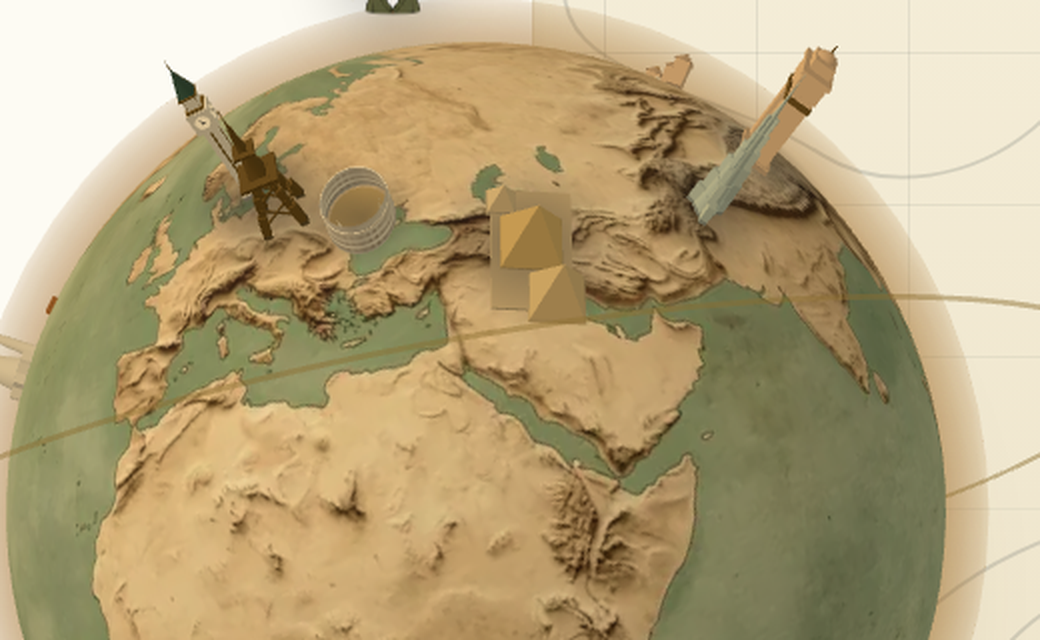
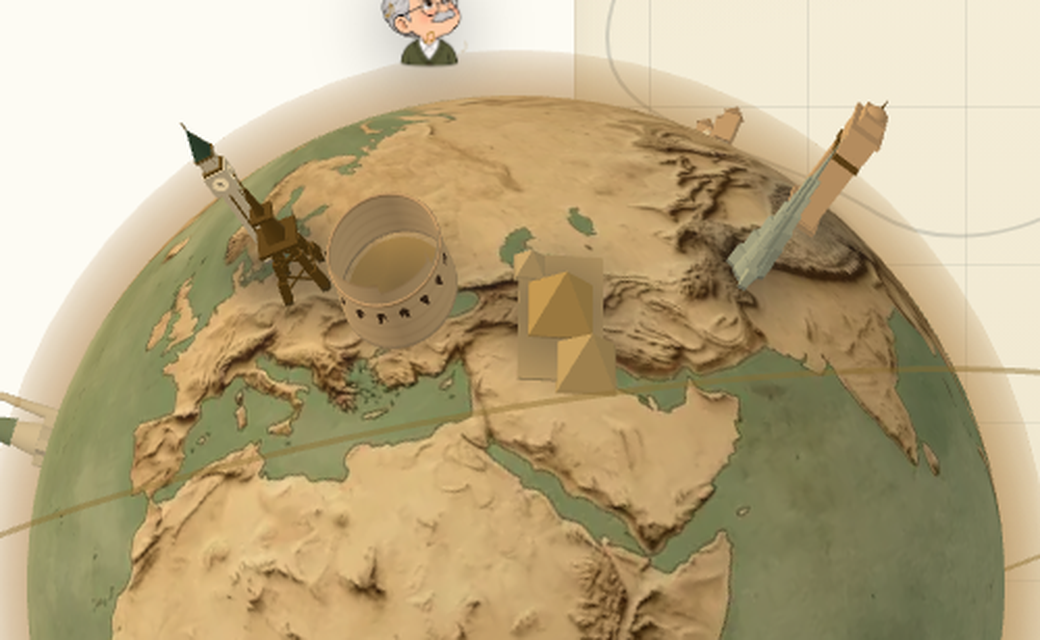
Restyle the Colosseum in the landmark globe mockup and record the recognition test

diff --git a/docs/mockups/landmark-globe.html b/docs/mockups/landmark-globe.html
@@ -227,7 +227,7 @@ const PAL = {
 const LANDMARKS = [
   { id: "eiffel", name: "Eiffel Tower", place: "Paris", lat: 48.858, lon: 2.294, show: [47.0, 2.8], scale: 0.22, color: "brassDeep" },
   { id: "bigben", name: "Big Ben", place: "London", lat: 51.501, lon: -0.125, show: [53.0, -2.0], scale: 0.19, color: "stone" },
-  { id: "colosseum", name: "Colosseum", place: "Rome", lat: 41.890, lon: 12.492, show: [41.9, 13.5], scale: 0.16, color: "stone" },
+  { id: "colosseum", name: "Colosseum", place: "Rome", lat: 41.890, lon: 12.492, show: [40.5, 15.0], scale: 0.25, color: "sandstone" },
   { id: "liberty", name: "Statue of Liberty", place: "New York", lat: 40.689, lon: -74.045, scale: 0.22, color: "sage" },
   { id: "cntower", name: "CN Tower", place: "Toronto", lat: 43.643, lon: -79.387, scale: 0.19, color: "stone" },
   { id: "goldengate", name: "Golden Gate Bridge", place: "San Francisco", lat: 37.820, lon: -122.478, scale: 0.28, color: "clay" },
@@ -353,25 +353,44 @@ const BUILD = {
   },
   colosseum(mat, key) {
     const b = bag();
+    // Restyled Nov 19 2026 (council spec, owner-adopted): the old build read as
+    // a grey ring at page size — pale stone, texture-only arches, shortest drum
+    // of the twelve. Now: warm sandstone, a taller drum, dark arch insets as
+    // real geometry, and a stepped broken upper tier for the ruin silhouette.
     const c = document.createElement("canvas");
     c.width = 1024; c.height = 256;
     const x = c.getContext("2d");
-    x.fillStyle = "#efe4c8"; x.fillRect(0, 0, 1024, 256);
-    x.fillStyle = "#b89a68";
+    x.fillStyle = "#dfc298"; x.fillRect(0, 0, 1024, 256);
+    x.fillStyle = "#b08954";
     x.fillRect(0, 0, 1024, 14);
-    x.fillStyle = "#7d6440";
-    for (let row = 0; row < 3; row++) for (let i = 0; i < 36; i++) {
-      const ax = i * 28.4 + 6, ay = 26 + row * 76;
-      x.beginPath(); x.moveTo(ax, ay + 58); x.lineTo(ax, ay + 18); x.arc(ax + 8, ay + 18, 8, Math.PI, 0); x.lineTo(ax + 16, ay + 58); x.fill();
-    }
+    x.fillStyle = "rgba(122, 90, 52, 0.35)";
+    for (let y = 62; y < 256; y += 64) x.fillRect(0, y, 1024, 5);
     const tex = new THREE.CanvasTexture(c);
     tex.colorSpace = THREE.SRGBColorSpace;
     tex.wrapS = THREE.RepeatWrapping;
     const wallMat = new THREE.MeshStandardMaterial({ map: tex, roughness: 0.9, side: THREE.DoubleSide });
-    b.add(new THREE.CylinderGeometry(0.5, 0.52, 0.34, 36, 1, true), wallMat, 0, 0.17, 0, 0, 0, 0, 1, 1, 0.8);
-    b.add(new THREE.CylinderGeometry(0.5, 0.5, 0.13, 36, 1, true, 0, Math.PI * 1.1), wallMat, 0, 0.405, 0, 0, 0, 0, 1, 1, 0.8);
-    b.add(new THREE.TorusGeometry(0.5, 0.013, 4, 36), mat(key), 0, 0.34, 0, Math.PI / 2, 0, 0, 1, 0.8, 1);
-    b.add(new THREE.CylinderGeometry(0.33, 0.33, 0.2, 28, 1, true), mat(key), 0, 0.1, 0, 0, 0, 0, 1, 1, 0.8);
+    const dark = new THREE.MeshStandardMaterial({ color: 0x4a3421, roughness: 0.95 });
+    const drum = (rt, rb, h, start, len) => new THREE.CylinderGeometry(rt, rb, h, 36, 1, true, start, len);
+    b.add(drum(0.5, 0.53, 0.46, 0, Math.PI * 2), wallMat, 0, 0.23, 0, 0, 0, 0, 1, 1, 0.8);
+    // stepped broken wedge: full height on one arc, stepping down twice
+    b.add(drum(0.5, 0.5, 0.22, 0, 1.5), wallMat, 0, 0.57, 0, 0, 0, 0, 1, 1, 0.8);
+    b.add(drum(0.5, 0.5, 0.14, 1.5, 1.05), wallMat, 0, 0.53, 0, 0, 0, 0, 1, 1, 0.8);
+    b.add(drum(0.5, 0.5, 0.07, 2.55, 0.8), wallMat, 0, 0.495, 0, 0, 0, 0, 1, 1, 0.8);
+    b.add(new THREE.TorusGeometry(0.5, 0.016, 4, 36), mat(key), 0, 0.46, 0, Math.PI / 2, 0, 0, 1, 0.8, 1);
+    // dark recessed arch insets as geometry, two rows all the way around
+    const aw = 0.062, ah = 0.115, ar = aw / 2;
+    const archShape = new THREE.Shape();
+    archShape.moveTo(-ar, -ah / 2);
+    archShape.lineTo(-ar, ah / 2 - ar);
+    archShape.absarc(0, ah / 2 - ar, ar, Math.PI, 0, true);
+    archShape.lineTo(ar, -ah / 2);
+    archShape.closePath();
+    const archGeo = new THREE.ShapeGeometry(archShape, 6);
+    for (const ay of [0.145, 0.325]) for (let i = 0; i < 16; i++) {
+      const t = ((i + 0.5) / 16) * Math.PI * 2;
+      b.add(archGeo.clone(), dark, 0.509 * Math.sin(t), ay, 0.8 * 0.509 * Math.cos(t), 0, t, 0);
+    }
+    b.add(new THREE.CylinderGeometry(0.33, 0.33, 0.3, 28, 1, true), mat(key), 0, 0.15, 0, 0, 0, 0, 1, 1, 0.8);
     b.add(cyl(0.46, 0.46, 0.03, 28), mat("sand"), 0, 0.015, 0, 0, 0, 0, 1, 1, 0.8);
     return b.build();
   },

diff --git a/docs/mockups/landmark-globe-contract.md b/docs/mockups/landmark-globe-contract.md
@@ -59,7 +59,7 @@ Pyramids use tints derived from the sand key only (sand lerped toward stone at 0
 | --- | --- | --- | --- | --- | --- |
 | Eiffel Tower | Paris | 48.858, 2.294 | 47.0, 2.8 | 0.22 | brassDeep |
 | Big Ben | London | 51.501, -0.125 | 53.0, -2.0 | 0.19 | stone |
-| Colosseum | Rome | 41.890, 12.492 | 41.9, 13.5 | 0.16 | stone |
+| Colosseum | Rome | 41.890, 12.492 | 40.5, 15.0 | 0.25 | sandstone |
 | Statue of Liberty | New York | 40.689, -74.045 | same | 0.22 | sage |
 | CN Tower | Toronto | 43.643, -79.387 | same | 0.19 | stone |
 | Golden Gate Bridge | San Francisco | 37.820, -122.478 | same | 0.28 | clay |
@@ -70,9 +70,11 @@ Pyramids use tints derived from the sand key only (sand lerped toward stone at 0
 | Great Wall | China | 40.432, 116.570 | same | 0.3 | stone |
 | Sydney Opera House | Sydney | -33.857, 151.215 | same | 0.3 | card |
 
-Build detail per landmark (Stage 1): Eiffel — four splayed tapered legs, crossed lattice struts on two tiers, two platforms, spire. Liberty — star pedestal (two rotated squares), lathe-turned draped robe, seven-ray crown, raised torch arm with gilded flame, tablet in the other arm. Opera House — four ribbed shells (segmented sphere shells plus rib arcs) on a two-step podium. Golden Gate — two stepped-portal towers, deck, catenary main cables with vertical suspenders. Big Ben — panel-lined shaft, four lit clock faces with hands, gilded belfry, spire. Colosseum — elliptical arcaded tiers (canvas texture, 36 arches per row, 3 tiers, 1024 x 256) with the broken upper ring. Pyramids — three crisp-edged pyramids in size order with sand tints. Burj Khalifa — six Y-plan setback tiers (three lobes each) rising to the spire. India Gate — arch legs, frieze band, cornice, attic and shallow dome. Great Wall — wall following a terrain curve with merlons on every segment and watchtowers at intervals. Machu Picchu — four terraces with stone retaining faces, three stone houses with pitched clay roofs, green peak behind. CN Tower — tapered shaft, pod with brass ring band, antenna.
+Build detail per landmark (Stage 1): Eiffel — four splayed tapered legs, crossed lattice struts on two tiers, two platforms, spire. Liberty — star pedestal (two rotated squares), lathe-turned draped robe, seven-ray crown, raised torch arm with gilded flame, tablet in the other arm. Opera House — four ribbed shells (segmented sphere shells plus rib arcs) on a two-step podium. Golden Gate — two stepped-portal towers, deck, catenary main cables with vertical suspenders. Big Ben — panel-lined shaft, four lit clock faces with hands, gilded belfry, spire. Colosseum — restyled Nov 19 2026 (council spec, owner-adopted; the original build — pale stone, texture-only arches, the shortest drum of the twelve — read as a grey ring at page size): warm sandstone drum, taller (0.46 units before scaling), dark recessed arch insets as geometry (two rows of 16 all the way around, not texture), a stepped broken upper tier (three arcs stepping 0.22 / 0.14 / 0.07) for the ruin silhouette, strata-banded canvas texture with no drawn arches, and the drawn-at spot widened from Eiffel / Big Ben (41.9, 13.5 -> 40.5, 15.0) with scale up 0.16 -> 0.25. Pyramids — three crisp-edged pyramids in size order with sand tints. Burj Khalifa — six Y-plan setback tiers (three lobes each) rising to the spire. India Gate — arch legs, frieze band, cornice, attic and shallow dome. Great Wall — wall following a terrain curve with merlons on every segment and watchtowers at intervals. Machu Picchu — four terraces with stone retaining faces, three stone houses with pitched clay roofs, green peak behind. CN Tower — tapered shaft, pod with brass ring band, antenna.
 
-Measured on the built mockup (Chromium, renderer readout): landmarks 7,010 triangles in total, largest single landmark Sydney Opera House at 1,872 triangles, desktop scene 50 draw calls and 18,850 triangles per frame.
+Measured on the built mockup (Chromium, renderer readout): landmarks 7,602 triangles in total (7,010 before the Colosseum restyle; the +592 is the restyle), largest single landmark Sydney Opera House at 1,872 triangles, desktop scene 51 draw calls and 19,442 triangles per frame.
+
+Recognition test (Nov 19 2026; the council's acceptance bar: a 7-year-old names it at rest page size): three clean-context readers who did not build the model were shown only the full-page capture (landmark-globe-in-prod-full-1280px.png, natural size — owner rule: mocks are always full page) and asked to name the landmarks they could see. All three named the Colosseum: "large round, open-topped amphitheatre with small arches around its wall" (reader A); "large round, open-topped cylindrical amphitheatre with small arched openings around its wall, centre-top of the globe" (reader B); "large open-topped circular amphitheatre drum with small arched openings around its wall" (reader C). Controls held: all three also named the Eiffel Tower and the Pyramids of Giza (two also named Big Ben and the Burj Khalifa). PASS — the bar for the in-lane proxy was at least 2 of 3 naming it; the zoomed cluster crop (landmark-globe-europe-cluster-1280px.png) is supporting evidence only and played no part in pass/fail.
 
 ## 3.5 Motion and input
 
@@ -107,3 +109,4 @@ Stage 2 production changes (owner rulings Nov 19 2026; layout decided by a three
 2. Mountain climbing scene on tablet and phone (src/components/home-v5.css) — BUG FIX (owner ruling, Nov 19 2026: the hide rule is the defect; responsive design scales the asset, it does not hide it): remove the @media (max-width: 1080px) rule that sets .hv5-mtn-wrap to display: none, and add to the <=680px block: .hv5-mtn-wrap { flex: 0 0 auto; margin: 20px -22px -32px; } (the bleed matches the <=680px hero padding; flex: 0 0 auto lets the art's aspect ratio govern the wrap height so the sliced trail and trekker overlays stay aligned). At 681–1080px the base wrap rule applies unchanged. In the approved mock the scene renders and animates at 768px and 390px (two captured frames differ at both widths), with no horizontal overflow.
 3. Desktop composition of the top section (src/components/home-v5.css) — owner ruling, Nov 19 2026 ("You need to fix desktop view"), decided by the same three-seat design pass and staged in the approved mock: with the card at content height, the rail's two components (globe zone + map card) travel as one group anchored to the hero's foot — @media (min-width: 1081px) { .home-v5 .hv5-rail { justify-content: flex-end; } }. The bento columns (2.24fr / minmax(260px, 0.92fr)), the globe zone (width: 100%; aspect-ratio: 1; margin: 0 0 -92px; its overlap onto the card unchanged) and the hero's proportions are unchanged; the card's bottom edge now shares the hero's baseline and the card sits beside the mountain scene. Measured in the approved mock at 1280px: hero 1192px tall, rail content 745px (globe zone 345px + card 492px − 92px overlap), card top at 700px in the rail, space under the card in the rail 0px (was 447px); the freed 447px sits above the globe zone, beside the hero's copy block. At 1878px: hero 1212px, card top 720px, space under the card 0px. The rule is scoped to min-width: 1081px so the <=1080px stacked layouts cannot move — re-measured identical (card 470px at 768px, 484px at 390px; copy-to-first-row gap 16px; mountain 462px / 256px, visible).
 4. Desktop globe size (src/components/home-v5.css) — owner ruling, Nov 19 2026 ("make the globe bigger and fill the void"), staged in the approved mock; supersedes item 3's globe-zone size and its "freed space above the globe" outcome (item 3's foot anchor is kept, as the guard that collects any remainder above the zone, never under the card): inside the same @media (min-width: 1081px) block, .home-v5 .hv5-globe-zone { width: 792px; flex: 0 0 auto; align-self: flex-end; } — the zone grows from the rail's 345px to 792px, sized so zone + card (492px) − the unchanged −92px overlap margin equals the hero's 1192px at the 1280px reference. The canvas is square (side = zone width), so the rendered disc grows ~205px → ~470px and the orbit ring ~290px → ~667px. The zone is wider than the rail column and right-aligns to the rail's edge: centred, its disc would cross the page's right edge at 1280px; right-aligned, the disc stays inside the page and bleeds left over the hero's empty right side. The bento columns, the hero's proportions, the card and the −92px overlap are unchanged. Measured in the approved mock at 1280px: zone 792×792px, void above the zone 0px (was 447px), space under the card 0px, card top in the rail 700px, horizontal overflow 0. At 1878px: zone 792px, the foot anchor collects the remaining 20px above the zone (hero 1212px vs 1192px of rail content), space under the card 0px, overflow 0. Scoped to min-width: 1081px; the <=1080px zone rules (220px / 200px, centred) are untouched — re-measured identical (zone 220px at 768px, 200px at 390px; card 470px / 484px; mountain 462px / 256px, visible).
+5. Colosseum restyle (the landmark model itself — in Stage 2 this lands in the production landmark models copied from this mockup): council spec, owner-adopted Nov 19 2026 after the original build read as a grey ring at page size. Scale 0.16 -> 0.25; colour stone -> sandstone; drawn-at (41.9, 13.5) -> (40.5, 15.0), widening the separation from Eiffel / Big Ben. Drum height 0.34 -> 0.46 units in warm sandstone with a strata-banded canvas texture (no drawn arches). Dark recessed arch insets as geometry: two rows of 16 arch shapes (0.062 x 0.115, colour #4a3421) standing just proud of the drum wall, all the way around. Stepped broken upper tier: three wall arcs of height 0.22 / 0.14 / 0.07 spanning 1.5 / 1.05 / 0.8 rad. Inner wall height 0.2 -> 0.3. Landmark totals after the restyle: 7,602 triangles (the Colosseum accounts for the +592 over the previous 7,010), largest single landmark still Sydney Opera House at 1,872, 51 draw calls — inside the per-landmark 5,000, total 40,000 and 60-call limits. Recognition test on the approved mock: passed 3 of 3 at full-page size (see 3.4).

diff --git a/docs/branch-status/feat-landmark-globe.md b/docs/branch-status/feat-landmark-globe.md
@@ -100,6 +100,15 @@ Captures: `docs/motion-verify/landmark-globe-mockup-1280px.png` (1280 x 900, ful
 - Colosseum evidence: docs/motion-verify/landmark-globe-europe-cluster-1280px.png (zoomed crop of the cluster at the new size, rest pose). Read by eye: Big Ben, the Eiffel Tower, the Pyramids and the Burj read as themselves; the Colosseum still reads as a grey ring, not a building — its arch texture is not discernible at this size and angle. Nothing removed or restyled; the owner's call comes after he sees the crop.
 - Captures overwritten: landmark-globe-in-prod-full-1280px.png, landmark-globe-in-prod-1280px.png; new: landmark-globe-europe-cluster-1280px.png. Contract section 3.6 Stage 2 item 4 carries the 792px zone into the production spec.
 
+## Addendum 9 — Colosseum restyle + recognition test (council spec, owner-adopted Nov 19 2026)
+
+- Model (docs/mockups/landmark-globe.html only; production untouched): scale 0.16 -> 0.25, colour stone -> sandstone, drawn-at (41.9, 13.5) -> (40.5, 15.0). Drum 0.34 -> 0.46 units tall in warm sandstone (strata-banded texture; the drawn texture arches are gone). Dark recessed arch insets as geometry: two rows of 16 arch shapes (#4a3421) around the drum. Stepped broken upper tier: arcs of 0.22 / 0.14 / 0.07. Inner wall 0.2 -> 0.3.
+- Measured [tested]: landmarks 7,602 tris total (+592, all of it the Colosseum), largest single Sydney Opera House 1,872, 51 draw calls, 19,442 scene tris/frame — inside every budget (5k per landmark, 40k total, 60 calls). Zero page/console errors on the staged prod page and the mockup page (the mockup page logs one expected fonts-proxy tunnel failure, same as Stage 1; the globe renders regardless).
+- Recognition test [tested]: test input = landmark-globe-in-prod-full-1280px.png (full page, natural size — owner rule Nov 19 2026: mocks are always full page; the cluster crop is supporting evidence only, labelled a zoom). Three clean-context readers who did not build the model, no hints beyond "name the landmarks you can see". All three named the Colosseum — A: "large round, open-topped amphitheatre with small arches around its wall"; B: "large round, open-topped cylindrical amphitheatre with small arched openings around its wall, centre-top of the globe"; C: "large open-topped circular amphitheatre drum with small arched openings around its wall". Controls: Eiffel Tower and Pyramids of Giza named by all three (Big Ben by all three, Burj Khalifa by two). PASS against the council bar (at least 2 of 3 for the in-lane proxy of "a 7-year-old names it at rest page size"); the owner's eye remains final.
+- Process note: the first reader dispatch lost its brief (spawn items silently took precedence over the message text, so the readers got the image with no question and returned layout audits). That round was voided; the test was re-run with the brief embedded next to the image. Only the re-run results are recorded above.
+- Captures overwritten: landmark-globe-europe-cluster-1280px.png (zoom on the restyled cluster, same framing slot), landmark-globe-in-prod-full-1280px.png, landmark-globe-in-prod-1280px.png, landmark-globe-mockup-1280px.png (1280x2984), landmark-globe-mockup-390px.png (622x3941 — dimensions match the previous capture).
+- Contract: 3.4 (table row, build detail, measured line, recognition-test note) and 3.6 Stage 2 item 5 carry the restyle into the production spec.
+
 ## Next step
 
 - Owner reviews the mockup and the captures. Stage 2 (production code in the Home hero) starts only on the owner's approval.
@@ -110,7 +119,7 @@ Captures: `docs/motion-verify/landmark-globe-mockup-1280px.png` (1280 x 900, ful
 
 ## Ruled out
 
-- Post-processing and a bigger geometry budget were not needed: the scene sits at 50 draw calls and 7,010 landmark triangles against limits of 60 and 40,000.
+- Post-processing and a bigger geometry budget were not needed: after the addendum-9 Colosseum restyle the scene sits at 51 draw calls and 7,602 landmark triangles against limits of 60 and 40,000.
 
 ## Graph
 
